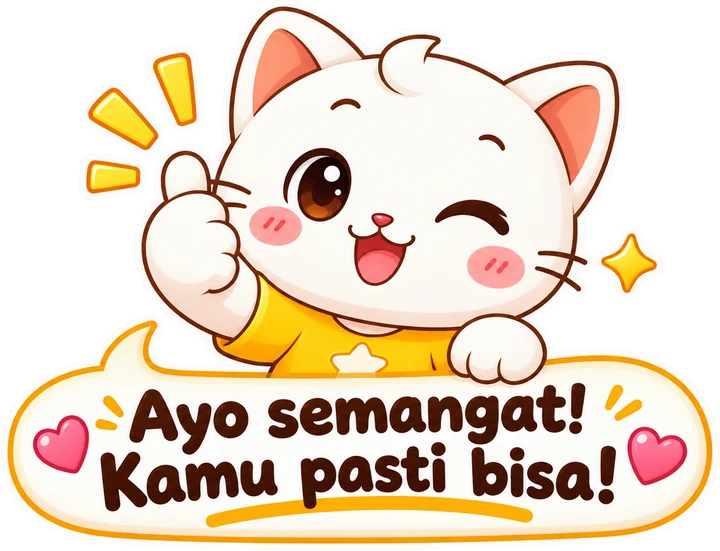
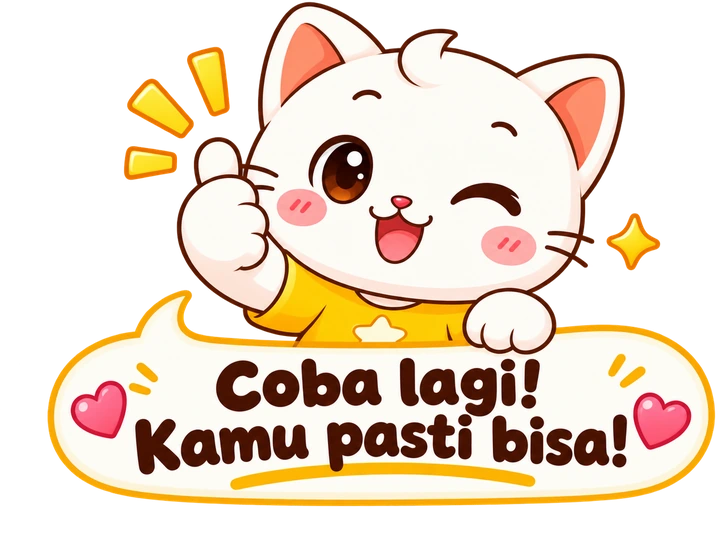
Overlay salah: gambar barunya bertuliskan "Coba lagi!", cocok dengan suaranya
Gambar kiriman pemilik, diterima dari percobaan pertama: kucing, spanduk,
hati, dan kilau yang sama persis — cuma tulisannya jadi "Coba lagi! /
Kamu pasti bisa!", sama dengan narasi yang diucapkan. Sebelumnya gambarnya
bertuliskan "Ayo semangat!" sementara suaranya "Coba lagi", jadi anak yang
belum lancar membaca mendengar satu kalimat sambil melihat kalimat lain.

Ejaan diperiksa huruf per huruf: "lagi" benar-benar huruf l kecil, bukan
I besar (jebakan nomor satu untuk kalimat ini).

scripts/trim-alpha.py (baru): gambarnya datang dengan latar yang SUDAH
transparan, bukan JPEG berlatar putih seperti gambar singa dulu.
cut-item.py justru berbahaya untuk berkas begitu — ia mencari latar PUTIH,
sedangkan di gambar ini bagian putih justru milik gambarnya sendiri (badan
kucing DAN spanduknya). Skrip baru ini cuma memangkas pinggiran kosong,
menaikkan alpha yang nyaris opak jadi 255, lalu mengecilkan ke 720 px —
tidak menebak apa pun. Jadi sekarang ada tiga pemotong, satu per jenis
bahan; dokumen prompt-nya menjelaskan cara memilih.

Hasil potongnya diperiksa di atas lima warna latar (krem, oranye, hijau
muda, abu tua, hampir hitam), bukan di atas putih: nol halo putih, nol
bolong di badan kucingnya.

Teruji headless 360x640, 380x800 & 820x1180 dengan memancing jawaban salah
sungguhan (jari ditarik keluar jalan di Rute Kendaraan): gambarnya
benar-benar termuat (naturalWidth 720, bukan sekadar ada <img>), teks
cadangan tidak muncul, nol scroll, nol error console, dan klip yang
[…]

diff --git a/scripts/trim-alpha.py b/scripts/trim-alpha.py
@@ -1,0 +1,64 @@
+#!/usr/bin/env python3
+"""Rapikan seni yang latarnya SUDAH transparan, lalu ekspor jadi WebP.
+
+    python scripts/trim-alpha.py <sumber.png> <tujuan.webp> [lebar]
+
+Saudara ketiga dari dua pemotong yang sudah ada — pilih sesuai bahan:
+
+  cut-item.py   seni stiker beroutline di atas latar PUTIH (flood fill dari tepi)
+  cut-soft.py   render 3D lembut tanpa outline di atas latar putih (erode/dilate)
+  trim-alpha.py latarnya SUDAH transparan — tidak ada yang perlu ditebak
+
+Menjalankan cut-item.py pada berkas yang sudah transparan itu berbahaya: ia
+mencari latar PUTIH, sedangkan di sini bagian putih yang tersisa justru milik
+gambarnya (badan kucing, spanduk) — jadi yang terbuang bisa isi gambarnya.
+
+Yang dikerjakan:
+  1. Memangkas pinggiran yang sepenuhnya transparan, supaya gambarnya mengisi
+     berkasnya. CSS mengukur aset ini lewat LEBAR berkas, jadi margin kosong
+     diam-diam mengecilkan gambar di layar.
+  2. Menaikkan alpha yang nyaris opak (>= 250) jadi 255. Sebagian penghasil
+     gambar menyimpan badan gambarnya di alpha 253-254; tak terlihat, tapi
+     tak ada gunanya dibiarkan setengah tembus.
+  3. Mengecilkan ke lebar yang diminta (LANCZOS) dan menyimpan WebP.
+"""
+
+import sys
+from PIL import Image
+
+ALPHA_SNAP = 250  # alpha >= ini dianggap opak penuh
+
+
+def main() -> int:
+    if len(sys.argv) < 3:
+        print(__doc__)
+        return 1
+    src, dst = sys.argv[1], sys.argv[2]
+    width = int(sys.argv[3]) if len(sys.argv) > 3 else 720
+
+    im = Image.open(src).convert("RGBA")
+    before = im.size
+
+    box = im.getbbox()
+    if box is None:
+        print("Gambarnya kosong (semua piksel transparan).")
+        return 1
+    im = im.crop(box)
+
+    alpha = im.split()[3].point(lambda v: 255 if v >= ALPHA_SNAP else v)
+    im.putalpha(alpha)
+
+    if im.width != width:
+        height = round(im.height * width / im.width)
+        im = im.resize((width, height), Image.LANCZOS)
+
+    im.save(dst, "WEBP", quality=92, method=6)
+
+    kb = round(len(open(dst, "rb").read()) / 1024)
+    print(f"{src} {before[0]}x{before[1]}  ->  {dst} {im.width}x{im.height}, {kb} kB")
+    print(f"dipangkas: kiri {box[0]}, atas {box[1]}, kanan {before[0] - box[2]}, bawah {before[1] - box[3]}")
+    return 0
+
+
+if __name__ == "__main__":
+    raise SystemExit(main())

diff --git a/CLAUDE.md b/CLAUDE.md
@@ -119,7 +119,8 @@ Setiap game dideklarasikan lewat config: `{ id, group, title, template, levels[]
 - Tombol besar (min 64px), target sentuh lega, tanpa teks kecil.
 - **Semua instruksi dinarasikan audio Bahasa Indonesia** (anak TK belum lancar membaca). Teks hanya pendamping.
 - Feedback positif selalu: salah = "Coba lagi, kamu pasti bisa!" — tidak ada hukuman. Dua overlay-nya memakai seni pemilik di `public/assets/feedback/`: `hebat-benar.webp` (singa) untuk benar, `coba-lagi.webp` (kucing) untuk salah. **Kalimatnya tergambar di dalam gambar**, jadi jangan tambahkan `.feedback-text` di sebelahnya — emoji 🌟/💪 + teks lama hanya muncul sebagai cadangan kalau aset gagal dimuat (`src/engine/ui/Feedback.tsx`). Narasi suaranya tidak berubah. Gambar singa datang sebagai JPEG berlatar putih: dipotong pakai `scripts/cut-item.py`, lalu bayangan abu-abu sisa tepi stiker dikupas manual — flood fill saja meninggalkan cincin abu-abu tipis.
-  - **Kalimat di dalam gambar WAJIB sama persis dengan yang diucapkan** (`ENGINE_LINES` di `scripts/extract-narration.mjs`). Gambar kucing sempat bertuliskan "Ayo semangat! Kamu pasti bisa!" sementara suaranya "Coba lagi, kamu pasti bisa!" (ketahuan 2026-09-05, begitu rekaman `engine` akhirnya terdengar di HP) — anak yang belum lancar membaca mendengar satu kalimat sambil melihat kalimat lain, persis kebalikan dari guna overlay ini. Yang diluruskan **gambarnya**, karena kalimat itu sudah jadi kalimat resmi umpan balik di seluruh proyek dan dipakai semua game. Prompt penggantinya: **`docs/prompt-gambar-feedback.md`** (di situ juga ada daftar salah-ketik khas AI untuk kalimat ini — `Iagi` bukan `lagi` adalah jebakan nomor satu).
+  - **Kalimat di dalam gambar WAJIB sama persis dengan yang diucapkan** (`ENGINE_LINES` di `scripts/extract-narration.mjs`). Gambar kucing sempat bertuliskan "Ayo semangat! Kamu pasti bisa!" sementara suaranya "Coba lagi, kamu pasti bisa!" (ketahuan 2026-09-05, begitu rekaman `engine` akhirnya terdengar di HP) — anak yang belum lancar membaca mendengar satu kalimat sambil melihat kalimat lain, persis kebalikan dari guna overlay ini. Yang diluruskan **gambarnya**, karena kalimat itu sudah jadi kalimat resmi umpan balik di seluruh proyek dan dipakai semua game. Prompt penggantinya: **`docs/prompt-gambar-feedback.md`** (di situ juga ada daftar salah-ketik khas AI untuk kalimat ini — `Iagi` bukan `lagi` adalah jebakan nomor satu). **Gambar penggantinya sudah terpasang** (720×533, 75 kB) dan teruji headless di 360×640, 380×800 & 820×1180: gambarnya benar-benar termuat (`naturalWidth` 720, bukan sekadar ada `<img>`), teks cadangan tidak muncul, nol scroll, dan klip yang berbunyi `engine/bba8e787ee7e.mp3` — sekarang sama dengan tulisannya.
+  - **Skrip potongnya tergantung bahannya, jangan asal pakai `cut-item.py`.** Gambar singa dulu datang berlatar putih; gambar kucing baru ini datang dengan **latar yang sudah transparan**, jadi dipotong dengan **`scripts/trim-alpha.py`** (baru — pangkas pinggiran kosong + rapikan alpha + kecilkan, tanpa menebak apa pun). Menjalankan `cut-item.py` pada berkas transparan BERBAHAYA: ia mencari latar PUTIH, sedangkan di gambar ini bagian putih justru milik gambarnya (badan kucing DAN spanduknya). Tiga pemotong yang ada sekarang: `cut-item.py` (stiker di latar putih) · `cut-soft.py` (render 3D lembut di latar putih) · `trim-alpha.py` (latar sudah transparan).
 - Progresi: bintang per level + maskot yang berkembang (lanjutkan konsep dari game "Petualangan Pintar" yang sudah ada).
 - Tidak ada iklan, tidak ada link keluar, tidak ada pembelian di dalam area anak. Area orang tua (akun, pembelian) dipisah di balik "gerbang orang tua" (mis. soal matematika sederhana).
 - Performa: harus mulus di Android low-mid end. Bundle kecil, lazy-load aset per game, gambar WebP, audio terkompresi.

diff --git a/docs/prompt-gambar-feedback.md b/docs/prompt-gambar-feedback.md
@@ -2,6 +2,17 @@
 
 Sasaran: **`public/assets/feedback/coba-lagi.webp`** — mengganti satu gambar yang sudah ada.
 
+## Status (2026-09-05) — SELESAI
+
+Gambar penggantinya **sudah terpasang**, dari percobaan pertama: kucing yang sama persis,
+spanduk yang sama, cuma tulisannya jadi "Coba lagi! / Kamu pasti bisa!". 720×533, 75 kB.
+Ejaannya sudah diperiksa huruf per huruf — `lagi` benar-benar huruf l kecil.
+
+Dokumen ini disimpan untuk kalau gambarnya diganti lagi, **dan karena tahap POTONG-nya
+ternyata berbeda dari dugaan awal**: gambar kiriman pemilik datang dengan **latar yang sudah
+transparan**, bukan JPEG berlatar putih seperti gambar singa dulu. Lihat "Setelah gambarnya
+jadi" di bawah — `cut-item.py` JUSTRU BERBAHAYA untuk berkas seperti itu.
+
 ## Kenapa diganti (2026-09-05, laporan pemilik)
 
 Gambarnya bertuliskan **"Ayo semangat! Kamu pasti bisa!"** sementara narasinya berbunyi
@@ -114,20 +125,30 @@ kalimatnya sekilas — mata otomatis membetulkan sendiri kata yang hampir benar.
 
 ## Setelah gambarnya jadi
 
-1. Simpan sebagai `coba-lagi.png` (atau apa pun; nama sumbernya bebas).
-2. Potong latar + ekspor — **pakai `cut-item.py`**, karena ini seni stiker beroutline,
-   bukan render 3D lembut:
-   `python scripts/cut-item.py <art> public/assets/feedback/coba-lagi.webp 720`
+1. Simpan berkasnya (nama sumbernya bebas).
+2. **Lihat dulu latarnya sudah transparan atau belum** — ini yang menentukan skripnya, dan
+   sempat salah duga di dokumen ini:
+
+   - **Latar sudah transparan** (yang terjadi 2026-09-05):
+     `python scripts/trim-alpha.py <art> public/assets/feedback/coba-lagi.webp 720`
+     Skrip itu cuma memangkas pinggiran kosong, merapikan alpha, dan mengecilkan — tak ada
+     yang ditebak.
+   - **Latar putih polos** (seperti gambar singa dulu):
+     `python scripts/cut-item.py <art> public/assets/feedback/coba-lagi.webp 720`
+
+   **JANGAN menjalankan `cut-item.py` pada berkas yang latarnya sudah transparan.** Skrip
+   itu mencari latar PUTIH — sedangkan di gambar ini bagian putih yang tersisa justru milik
+   gambarnya (badan kucing DAN spanduknya), jadi yang terbuang bisa isi gambarnya sendiri.
+   Ini gambar paling rawan potong-latar di seluruh proyek.
+
    (720 = lebar file yang sekarang; overlay-nya tampil maksimal 460px, jadi 720 sudah cukup
-   tajam untuk layar 1,5×.)
-3. **Lihat hasilnya di atas latar berwarna dulu.** Latar overlay ini krem/oranye lembut,
-   jadi sisa piksel putih di sekitar spanduk akan terlihat sebagai bingkai kotor. Jangan
-   percaya angka "latar terbuang" yang dicetak skripnya.
-4. Cek sekali lagi bahwa **bagian putih yang memang milik gambar tidak ikut terbuang** —
-   badan kucingnya putih dan spanduknya putih, jadi ini gambar paling rawan di seluruh
-   proyek untuk urusan potong-latar. Kalau bolong, itu tanda ambangnya terlalu longgar.
-5. Tidak ada kode yang perlu diubah.
-6. Deploy seperti biasa; pastikan `dist/assets/feedback/` ikut tersalin ke folder `app/` di
+   tajam untuk layar 1,5×. Tingginya ikut rasio gambar — 533 px untuk yang sekarang.)
+3. **Lihat hasilnya di atas latar berwarna dulu**, jangan di atas putih dan jangan percaya
+   angka yang dicetak skripnya. Cara cepat: tempel gambarnya di atas beberapa pita warna
+   sekaligus (krem, oranye, hijau muda, abu tua, hampir hitam) — sisa piksel putih atau
+   bolong di badan kucingnya langsung terlihat, dan tak akan terlihat di atas putih.
+4. Tidak ada kode yang perlu diubah.
+5. Deploy seperti biasa; pastikan `dist/assets/feedback/` ikut tersalin ke folder `app/` di
    branch Pages.
 
 ## Kalau nanti gambar "Hebat kamu benar!" juga diganti
